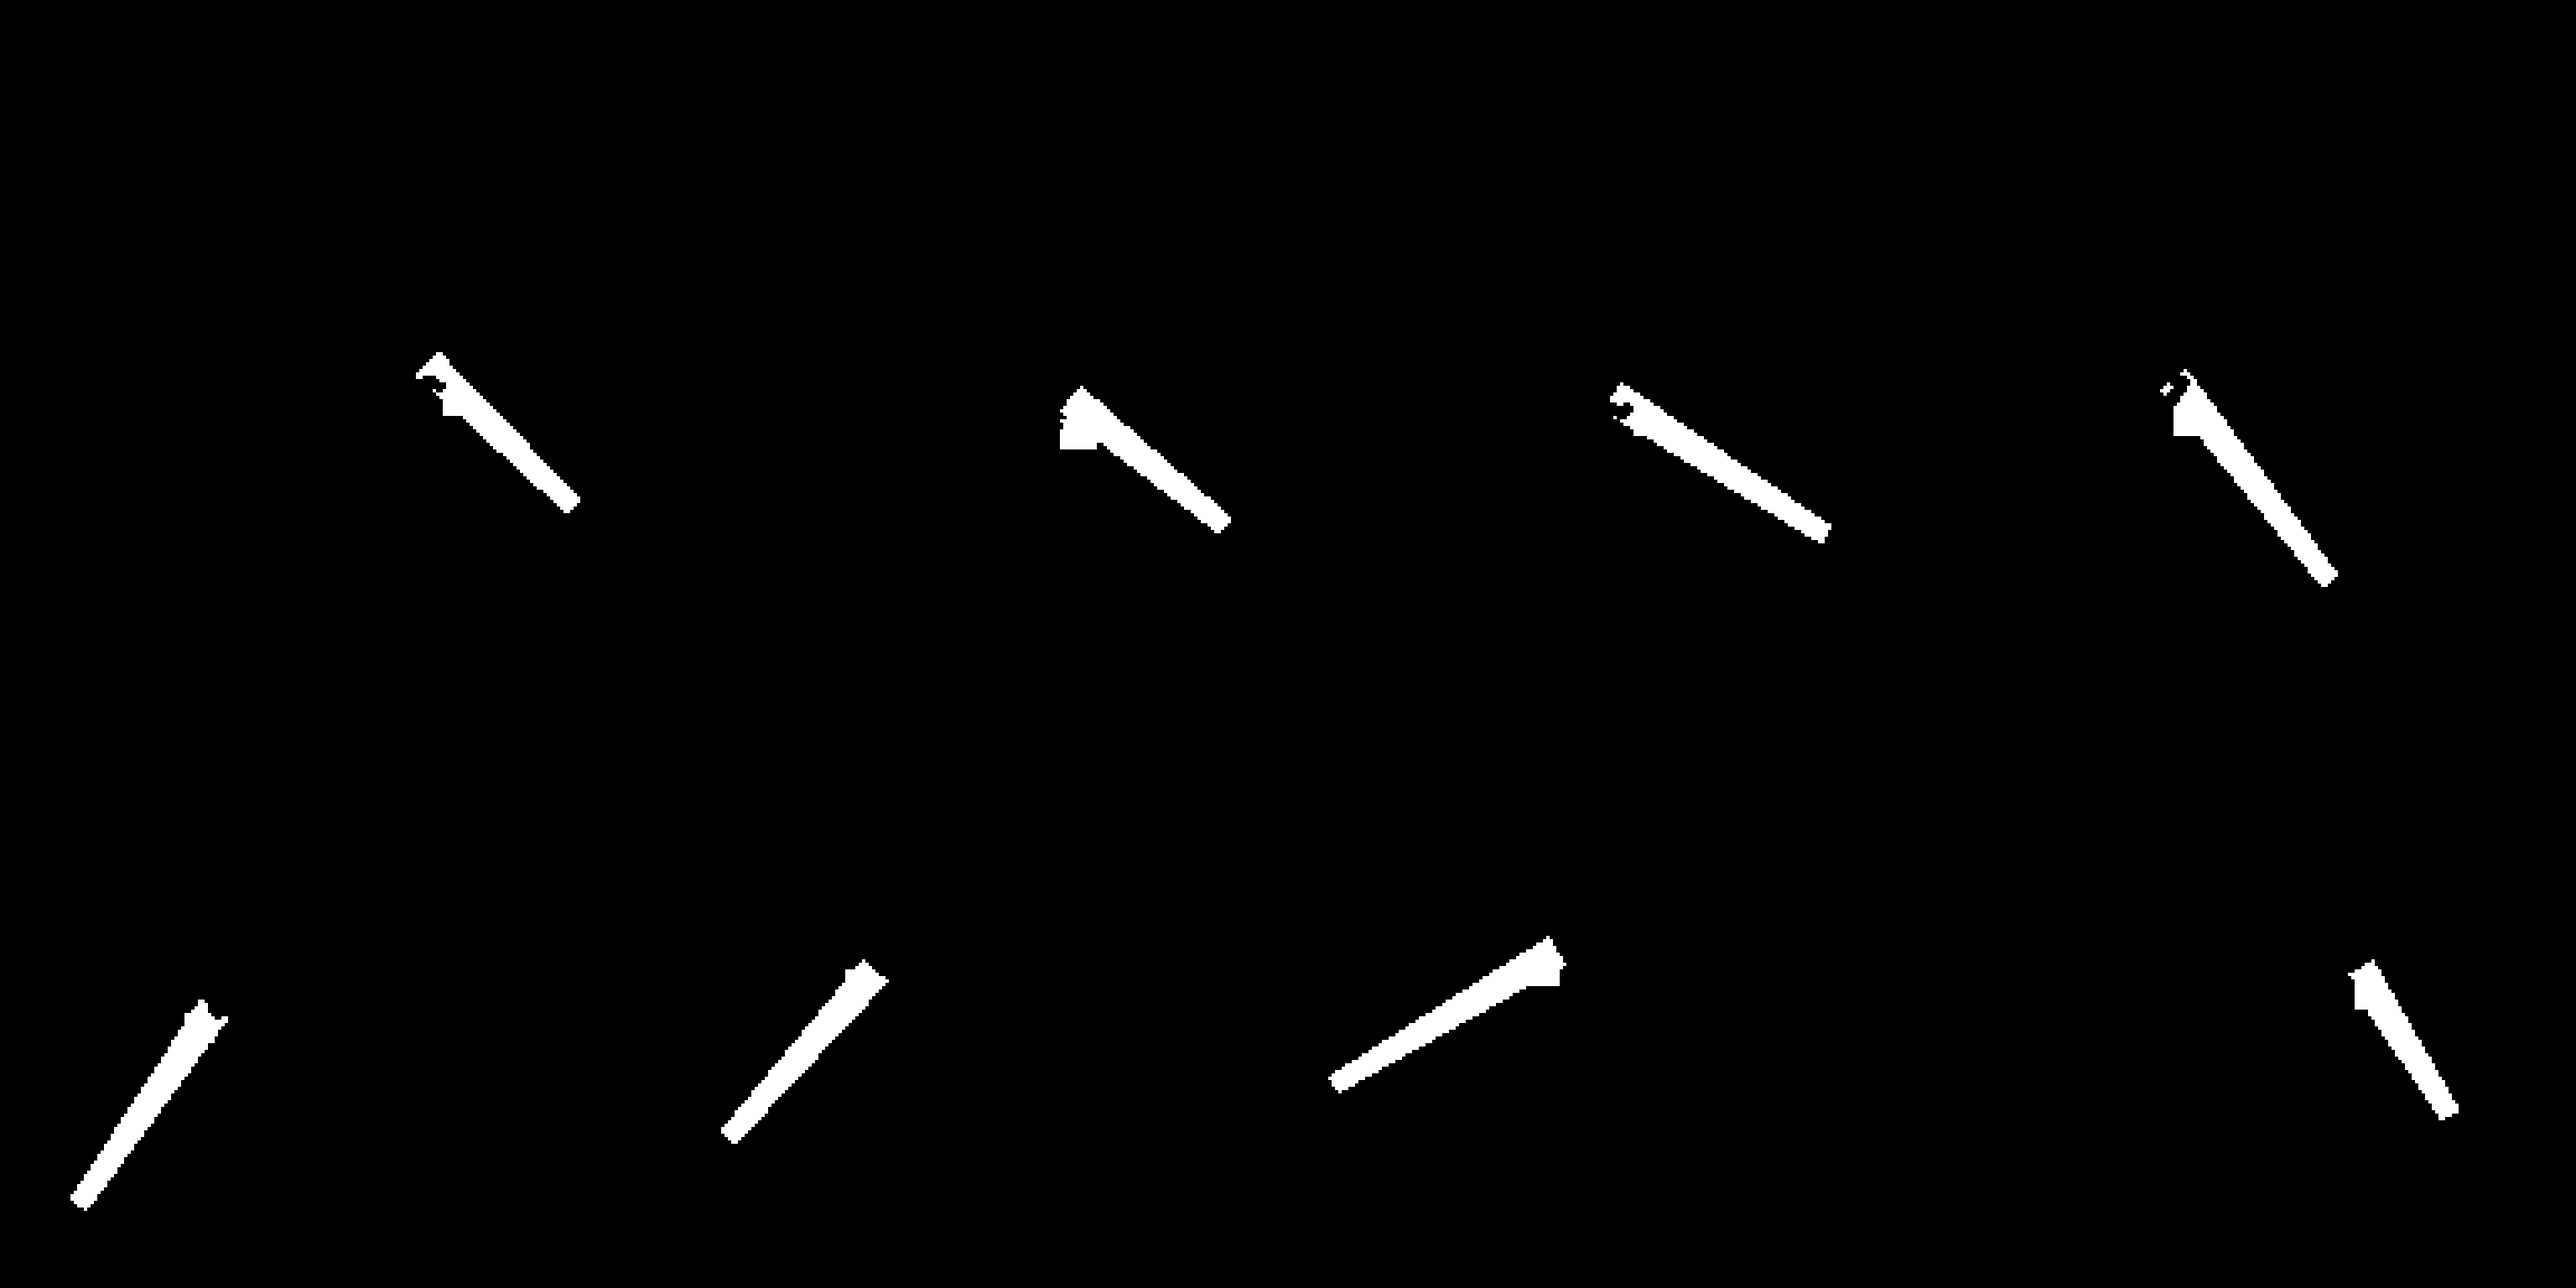
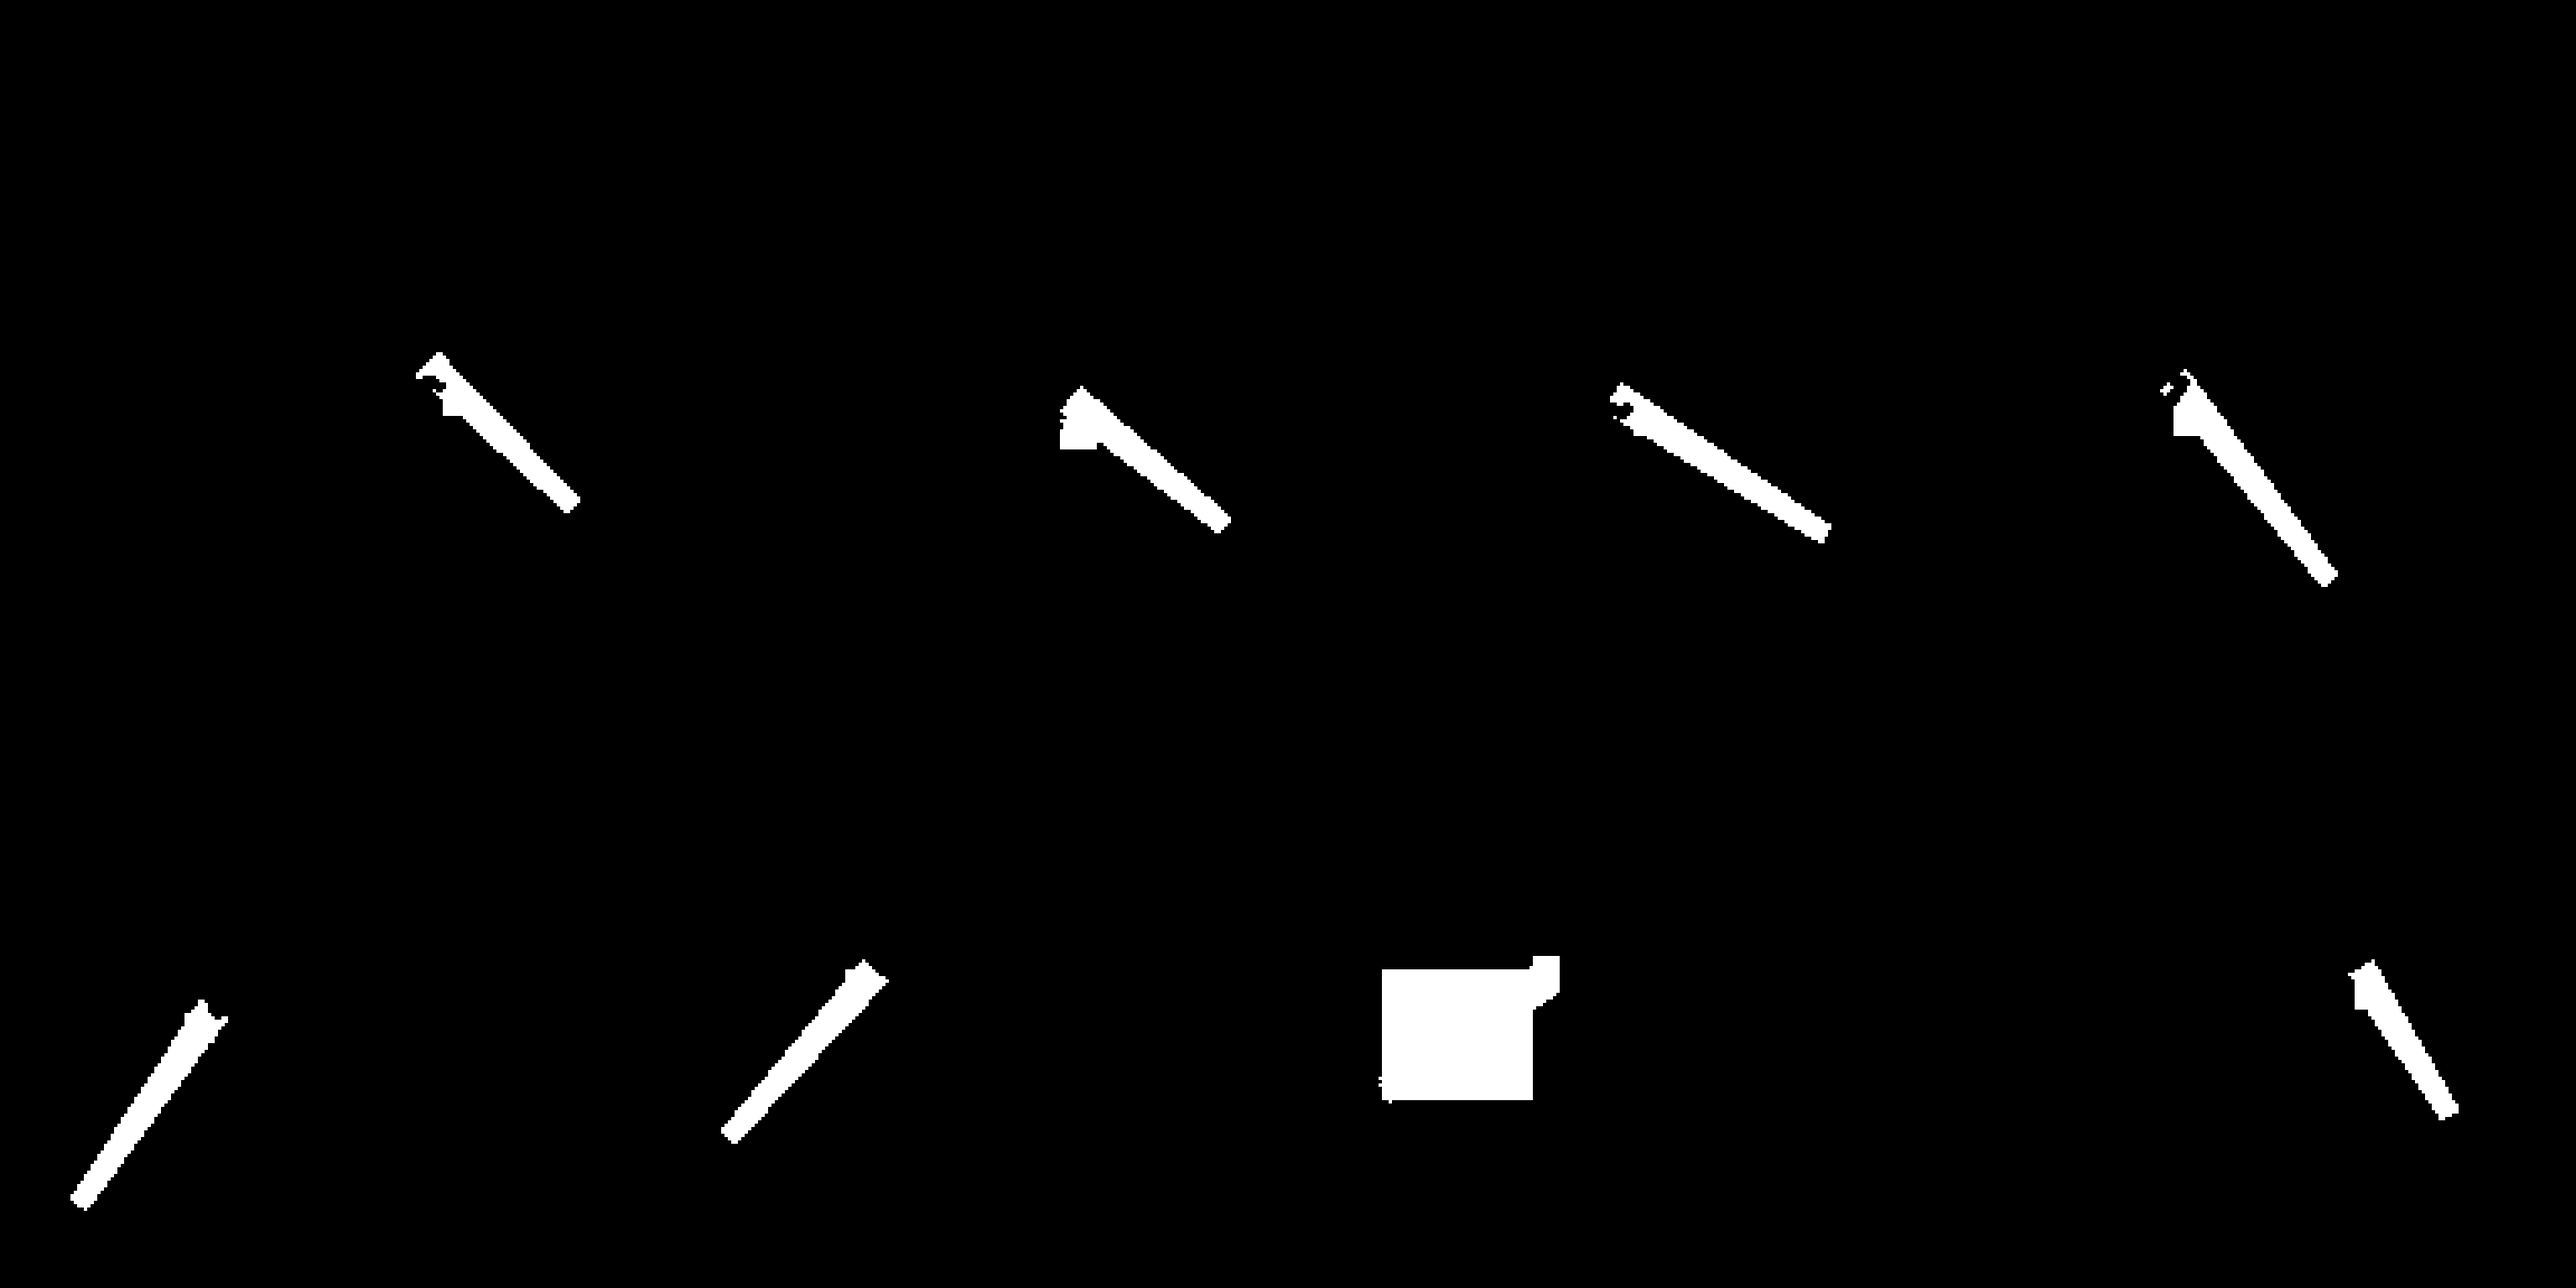
art: remove original blade remnants from W equipment body

Changed region(s): [[0.5, 0.7188, 0.625, 0.875]]

diff --git a/scripts/prepare_modular_equipment_fit.py b/scripts/prepare_modular_equipment_fit.py
@@ -75,7 +75,22 @@ def forward_blade_selector(pose):
 
 
 def original_removal(name, hand):
-    selection=lib.old_weapon_selection(lib.POSES[name])
+    removal_pose=lib.POSES[name]
+    if name=="W":
+        # Original W blade runs from (74.5,100.5) to (31.5,130.5).
+        # The v1 equipment mount used (76,94)->(16,130); that line passes
+        # above the old blade and must not be reused as its removal guide.
+        removal_pose={**removal_pose,"grip":[74.5,100.5],"tip":[31.5,130.5]}
+    selection=lib.old_weapon_selection(removal_pose)
+    if name=="W":
+        # The lower edge curves below the center-line trapezoid; include its
+        # two-pixel lower margin, rather than leaving a silver edge behind.
+        selection=ImageChops.lighter(selection,ImageChops.offset(selection,0,2*SCALE))
+        # This rectangle is outside the original torso and contains only the
+        # old external blade/background. Its weak antialias must also go.
+        external=empty_mask()
+        ImageDraw.Draw(external).rectangle((28*SCALE,97*SCALE,73*SCALE-1,136*SCALE-1),fill=255)
+        selection=ImageChops.lighter(selection,external)
     x0,y0,x1,y1=OLD_GUARDS[name]
     guard=lib.polygon([[x0,y0],[x1,y0],[x1,y1],[x0,y1]])
     selection=ImageChops.lighter(selection,guard)
@@ -100,6 +115,22 @@ def microscope(before,after,filename,part):
         d.text((x+15,y+240),"이전",font=lib.font(18),fill=(65,73,73))
         d.text((x+207,y+240),"보정",font=lib.font(18),fill=(65,73,73))
     canvas.save(OUT/filename)
+
+
+def w_blade_comparison(after,body):
+    folder=OUT/"w-blade-fix"
+    if not (folder/"before-w.png").exists():
+        return
+    before=Image.open(folder/"before-w.png").convert("RGBA")
+    after.save(folder/"after-w.png")
+    canvas=Image.new("RGB",(1500,500),(239,237,227));d=ImageDraw.Draw(canvas)
+    d.text((24,18),"W 방향 · 기존 칼날 잔여 제거",font=lib.font(31),fill=(28,42,46))
+    d.text((24,61),"칼을 뺀 몸체에 남아 있던 원래 칼날을 제거하고, 새 칼 한 자루만 조합",font=lib.font(21),fill=(65,73,73))
+    for i,(title,im) in enumerate([("수정 전 · 두 칼날 겹침",before),("기존 칼 제거 후 몸체",body),("수정 후 · 새 칼 한 자루",after)]):
+        d.text((i*500+18,119),title,font=lib.font(24),fill=(37,61,66))
+        roi=im.crop((12*SCALE,88*SCALE,88*SCALE,142*SCALE)).resize((470,334),Image.Resampling.NEAREST)
+        canvas.paste(roi,(i*500+15,158),roi)
+    canvas.save(folder/"comparison.png")
 
 
 def main():
@@ -132,6 +163,20 @@ def main():
         hand_small=hand_selector.resize((192,192),Image.Resampling.NEAREST)
         remove=ImageChops.subtract(remove,hand_small)
         clean=Image.composite(underpaint.crop(cell),orig,remove)
+        old_blade_probe=None
+        if name=="W":
+            # There is no concealed clothing in this external blade region;
+            # use actual transparency, not generated background antialias.
+            clean.paste((0,0,0,0),(28,97,73,136))
+            # Original-alpha probe outside the torso, independently read from
+            # the source PNG, not from the new weapon or removal coordinates.
+            # This failed on the parent commit: 289 of 305 probe pixels remained.
+            probe=np.asarray(orig)[97:136,28:73,3]>16
+            remaining=int((probe&(np.asarray(clean)[97:136,28:73,3]>16)).sum())
+            any_alpha=int((np.asarray(clean)[97:136,28:73,3]>0).sum())
+            old_blade_probe=dict(roi_base_px=[28,97,73,136],alpha_threshold=16,original_blade_pixels=int(probe.sum()),remaining_in_unarmed_body=remaining,remaining_any_alpha_in_external_roi=any_alpha)
+            assert remaining==0,("W original blade remains in body",remaining)
+            assert any_alpha==0,("W old blade antialias remains",any_alpha)
         body=clean.resize((CELL,CELL),Image.Resampling.NEAREST)
         head_selector=body_selection(p["head"])
         core=lib.clip(body,ImageChops.invert(ImageChops.lighter(hand_selector,head_selector)))
@@ -185,6 +230,8 @@ def main():
         old_guard_kept=float(((np.array(old_hand)>0)&(np.array(guard)>0)).sum())/(SCALE*SCALE)
         new_guard_kept=float(((np.array(hand_selector)>0)&(np.array(guard)>0)).sum())/(SCALE*SCALE)
         metrics.append(dict(direction=name,partition=partitions,body_reassembly_visible_rgba_exact=True,opaque_original_finger_changes=hand_changes,base_changes_outside_removal=outside,navy_wrap_under_finger_area_base_px2=grip_overlap if name!="W" else None,palm_visible=name!="W",guard_region_retained_by_hand_selector_base_px2=dict(v1=old_guard_kept,v2=new_guard_kept),visual_approval=False))
+        if old_blade_probe is not None:
+            metrics[-1]["old_blade_removal_probe"]=old_blade_probe
         registrations.append(dict(direction=name,**p,source_hat_bbox=bbox_hat,source_weapon_bbox=bbox_weapon,weapon_transform=transform))
         tinted=body.copy()
         for a,color in [(body.getchannel("A"),(63,131,191)),(head.getchannel("A"),(193,81,173)),(hand.getchannel("A"),(245,170,54))]:
@@ -199,6 +246,7 @@ def main():
     lib.review_grid(mask_reviews,"방향별 가림 보정","파랑: 몸체 / 자주: 얼굴·뒷머리 / 주황: 보이는 오른손 | W 손은 몸 뒤에 가림","preview-masks-8dir.png")
     microscope(old_tiles,layers["preview-equipped"],"comparison-hands.png","hand")
     microscope(old_tiles,layers["preview-equipped"],"comparison-heads.png","head")
+    w_blade_comparison(layers["preview-equipped"][6],layers["base-without-weapon"][6])
     lib.json_write(OUT/"registration.json",dict(schema_version=2,pose="idle",cell_px=192,art_scale=4,atlas_grid=[4,2],direction_order=NAMES,foot_root=[96,176],observation_file="observations.json",warning="Mounting targets are not independent anatomical alignment certification. W palm is hidden, not observed.",poses=registrations))
     lib.json_write(OUT/"layer-contract.json",dict(schema_version=2,status="review_only",cell_px=768,atlas_px=[3072,1536],directions=NAMES,draw_order=["headgear-rear","weapon-rear","body-core","weapon-front","right-hand","headgear-front","head-foreground"],weapon_depth="The palm-inward grip/pommel region is rear. In SE/S/SW, only points at least 2.5 base pixels outward from the registered palm along the blade axis can be front. Other directions keep the entire weapon rear.",body_parts="Disjoint RGBA core, original visible fingers, and original head foreground. Do not additionally render the complete body.",weapon_hand="anatomical_right",horizontal_reflection=False,occlusion_baked_into_full_items=False,scope="Idle fit only; no walking, attack or runtime integration."))
     lib.json_write(OUT/"validation.json",dict(status="static_checks_passed_visual_approval_pending",checks=metrics,artwork_repainted=False,new_weapon_edit_completed=False,source_directory="../idle-v1",source_sha256={str(p.relative_to(ROOT)):lib.sha(p) for p in [ROOT/"assets/warrior-idle-8dir-v1.png",SOURCE/"paeraengi-generated-source.png",SOURCE/"hwando-generated-source.png",SOURCE/"weapon-underpaint-generated-source.png"]},game_execution_tested=False,game_connected=False,anatomical_alignment_certified=False,limitations=["Requested hilt/guard repaint was blocked by image_gen; no new artwork was generated.","Original guard proportions remain in the source; this revision fixes mounting, old-guard remnants and occlusion only.","W palm is hidden and has no independently observed center.","Weapon-removal underpaint remains a draft reconstruction of concealed clothing."]))

diff --git a/art/hero/gear/modular-samples/idle-fit-v2/w-blade-fix/README.md b/art/hero/gear/modular-samples/idle-fit-v2/w-blade-fix/README.md
@@ -1,0 +1,15 @@
+# W 두 칼날 겹침 수정
+
+부모 커밋 `6b846e62e48976d54c27066488fafb314afdec56`의 W를 사용자가 지적한 뒤 확대해 확인했다. **기존 칼날이 칼 제거 몸체에 남아 새 환도와 겹친 실제 결함**이다. 검수에서 이를 놓쳤다.
+
+![전후와 칼 제거 몸체](comparison.png)
+
+- 기존 제거 중심선은 `(76,94)→(16,130)`으로, 실제 원래 칼날보다 위를 지나간다. W의 기존 칼은 약 `(74.5,100.5)→(31.5,130.5)`이며 휘어진 하단에도 여유가 필요했다. 새 장비 장착점과 기존 칼 제거용 위치를 혼용하지 않게 W 제거 중심선을 별도로 지정했다.
+- 원래 W 몸통 밖의 `(28,97)-(73,136)` 영역에는 기존 칼날과 배경만 있다. 이 영역은 추정 복원 그림 대신 실제 투명 픽셀로 제거해 희미한 이전 칼 테두리도 남기지 않는다. 선택 마스크에도 같은 영역을 포함해 선택 밖 픽셀을 바꾸지 않았다.
+- 원래 PNG에서 알파>16인 외부 칼날 표본은 305개다. 이전 칼 제거 몸체에는 그중 289개가 남았고 수정 후 0개다. 같은 외부 영역의 알파>0 전체 픽셀은 **378→0**이다. 두 조건을 준비 도구의 검사에 추가했다.
+- 중심선만 고친 첫 후보는 휘어진 하단 34개 표본을 남겨 새 검사에 실패했다. 하단 경계와 외부 투명을 보정한 최종 후보로 다시 검사했다. 실패 후보로 검수 통과를 기록하지 않았다.
+- 새 환도 자체의 전체/앞/뒤 레이어와 모든 모자 원화는 변경하지 않았다. 모든 레이어·마스크의 다른 7방향 픽셀 변경은 0이다. 게임 코드·실행 에셋·원본 미술·다리 가이드도 보존했다.
+
+`before-w.png`와 `before-body-w.png`는 부모 커밋의 실제 W 합성/칼 제거 몸체다. `after-w.png`는 수정된 출력이며 `comparison.png`는 수정 전 / 수정된 칼 제거 몸체 / 수정 후를 확대했다. `validation.json`은 이번 잔여·범위·재현 검사다. 위 폴더의 `../validation.json`과 `../regression-check.json`도 현재 출력에 맞춰 갱신한다.
+
+재현: `python scripts/prepare_modular_equipment_fit.py`. 이번 검증은 원화 준비 출력의 픽셀·알파·조합 검사다. C/SDL·브라우저·실기기 게임 표시는 실행하지 않았다. 걷기·게임 연결·병합·배포는 하지 않았다.

diff --git a/CURRENT_STATE.md b/CURRENT_STATE.md
@@ -1,5 +1,11 @@
 # CURRENT_STATE.md — 팔도야담 개발 상태
 
+## 2026-10-23 · W 두 칼날 겹침 수정 (PR #44)
+
+- 사용자 지적을 확대 확인해 W의 칼 제거 몸체에 기존 칼날이 남아 새 칼과 겹치는 결함을 확인했다. 제거 마스크가 실제 기존 칼보다 위를 지나갔으며 이전 알파 분할/합성 검사는 몸체의 칼 잔여를 검출하지 못했다.
+- W 제거 중심선과 휘어진 하단 경계를 보정하고, 몸 바깥의 기존 칼날 영역은 약한 가장자리까지 투명하게 제거했다. 원래 PNG에서 읽은 칼날 표본 305개 중 몸체에 남던 유효 알파는 289→0, 해당 외부 영역 전체의 알파>0 픽셀은 378→0이다. 이 검사를 준비 도구에 추가했다.
+- 새 무기/모자 레이어와 다른 7방향의 픽셀은 보존했다. 전후·칼 제거 몸체·검수는 `idle-fit-v2/w-blade-fix/`에 보존하며 출력 재합성/반복·원본 보존은 regression-check에 기록한다. 게임 코드/실행 에셋·다리 가이드·걷기·병합·배포 변경 없음.
+
 ## 2026-10-23 · 분리 장비 2차: 정지 장착·손 가림 보정 (PR #44)
 
 - `4b9c6bb`에서 다음 진행 지시에 따라 `art/hero/gear/modular-samples/idle-fit-v2/`와 새 준비 도구를 추가했다. 이전 v1·모든 생성 원본·다리 PR #43을 보존했다. 원래 손을 픽셀 격자로 다시 관찰해 장착 위치/손 선택을 좁히고, 자루는 손목 뒤·SE/S/SW 바깥 칼날만 앞에 놓았다. W 손바닥은 가려져 관찰 null이다. 패랭이는 폭 42px, 상단 y20~21로 조정했다.

diff --git a/art/hero/gear/modular-samples/idle-fit-v2/README.md b/art/hero/gear/modular-samples/idle-fit-v2/README.md
@@ -1,5 +1,7 @@
 # 패랭이·환도 2차 — 정지 장착·가림 보정
 
+**W 칼날 겹침 후속 수정:** 기존 칼 제거 몸체에 남은 원래 칼날이 새 무기와 겹치는 결함을 수정했다. W 제거 마스크와 몸 밖의 투명 처리를 보정했으며, 새 무기/모자 원화와 다른 7방향은 보존했다. [원인·검사](w-blade-fix/README.md), [실제 전후 비교](w-blade-fix/comparison.png). 이전 알파 분할 검사만으로는 이 잔여를 검출하지 못했으므로 원래 PNG의 외부 칼날 알파 잔여 검사도 추가했다.
+
 PR #44의 `4b9c6bb`에서 사용자 다음 진행 지시에 따라 **정지 예시의 착용 위치와 손 접합/가림**을 보정했다. 이전 `idle-v1/`과 생성 원본은 그대로 보존한다. 현재 후보는 `idle-fit-v2/`이며 게임용 파일에 연결하지 않았다.
 
 ![8방향 보정](preview-equipped-8dir.png)
